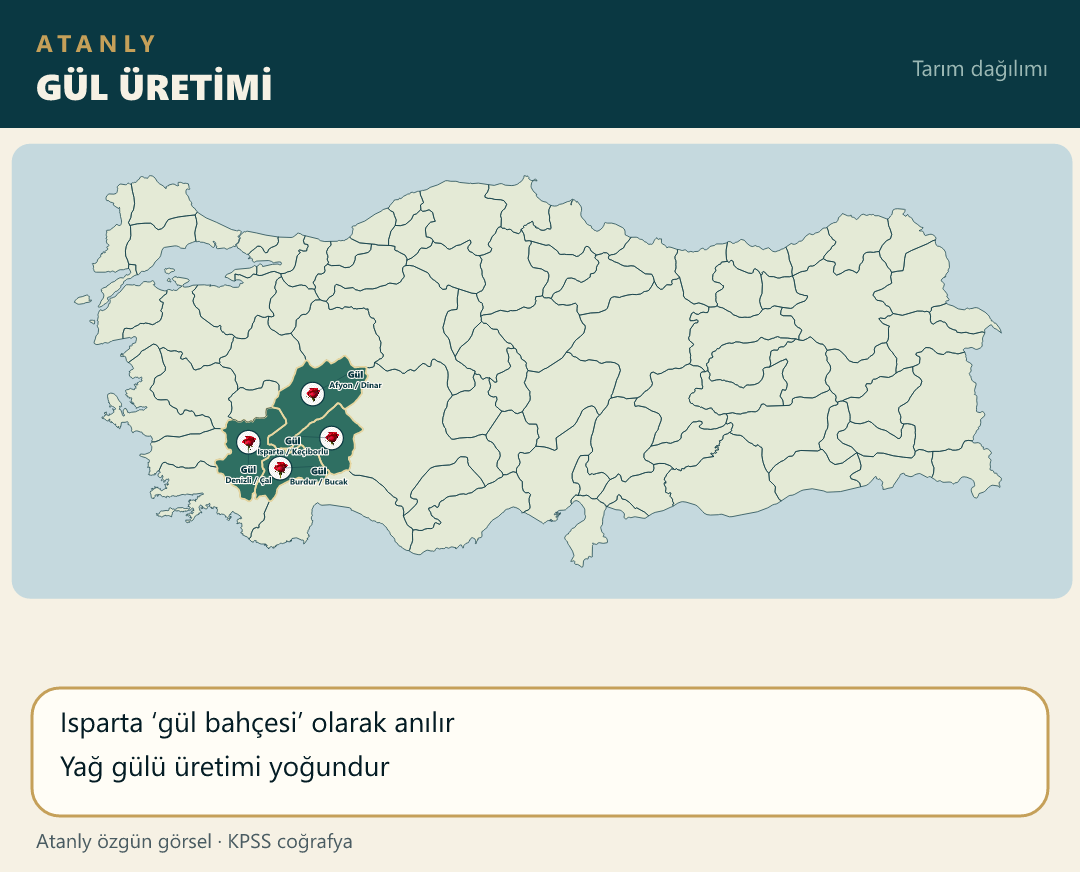
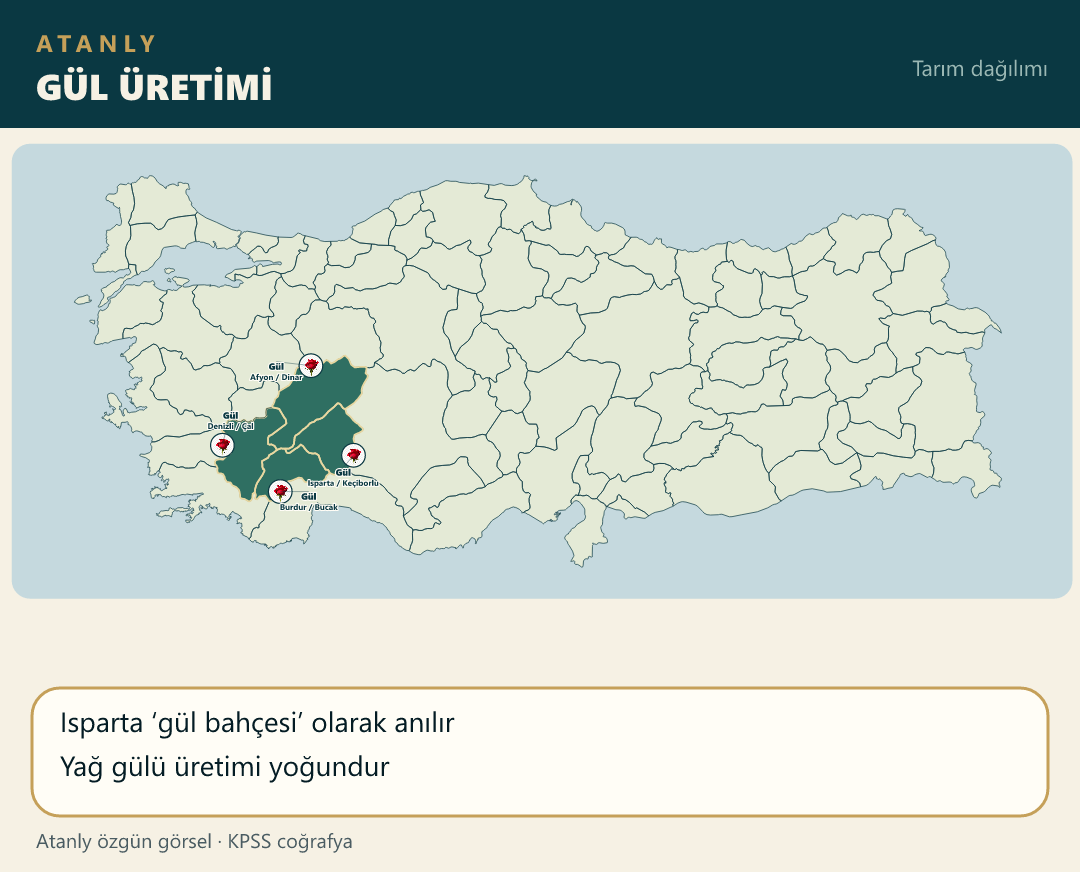
Separate Lakes Region rose pins so labels stay inside each province.

Changed region(s): [[0.1833, 0.4644, 0.3361, 0.5883], [0.2444, 0.4025, 0.3667, 0.4644]]

diff --git a/scripts/build-atanly-maps.js b/scripts/build-atanly-maps.js
@@ -410,7 +410,7 @@ function spreadSameCell(pts) {
 }
 
 function clampPhotoLabel(p) {
-    if (p.minX == null) return;
+    if (p.locked || p.minX == null) return;
     var minOff = 28;
     function inside(x, y) {
         return x >= p.minX + 12 && x <= p.maxX - 12 && y >= p.minY + 12 && y <= p.maxY - 12;
@@ -531,6 +531,8 @@ function cropMap(provs, opts) {
         }
         hi.push(row.il);
         var pos = districtXY(fp);
+        if (row.pin === "cap" && fp.capX != null) pos = { x: fp.capX, y: fp.capY };
+        pos = { x: pos.x + (row.pdx || 0), y: pos.y + (row.pdy || 0) };
         var ldy = row.ldy != null ? row.ldy : ((fp.maxY - pos.y) < 55 ? -16 : 18);
         pts.push({
             x: pos.x, y: pos.y, ox: pos.x, oy: pos.y,
@@ -548,7 +550,10 @@ function cropMap(provs, opts) {
     if (!opts.urun) spreadSameCell(pts);
     else {
         spreadPhotoLabels(pts);
-        pts.forEach(clampPhotoLabel);
+        pts.forEach(function (p) {
+            if (p.locked) return;
+            clampPhotoLabel(p);
+        });
     }
     var factsY = 78 + MAP_BLOCK_H + 16;
     var facts = wrapFacts(opts.facts, 16, factsY, CANVAS_W - 32, 14);
@@ -634,10 +639,10 @@ function main() {
         { file: "kırmızı_mercimek.png", title: "KIRMIZI MERCİMEK", iller: ["Şanlıurfa", "Diyarbakır", "Mardin", "Batman"], facts: ["Güneydoğu Anadolu birinci sıradadır", "Kuraklığa dayanıklı baklagildir"] },
         { file: "gül.png", title: "GÜL ÜRETİMİ", urun: "Gül",
             noktalar: [
-                { il: "Isparta", ilce: "Keçiborlu", ldx: -40, ldy: -22 },
-                { il: "Burdur", ilce: "Bucak", ldx: -28, ldy: 30 },
-                { il: "Afyon", ilce: "Dinar", ldx: 42, ldy: -16 },
-                { il: "Denizli", ilce: "Çal", ldx: -44, ldy: 8 }
+                { il: "Afyon", ilce: "Dinar", pin: "cap", pdy: -28, ldx: -34, ldy: 4 },
+                { il: "Isparta", ilce: "Keçiborlu", pin: "cap", pdx: 20, pdy: 16, ldx: -10, ldy: 20 },
+                { il: "Burdur", ilce: "Bucak", pin: "cap", pdy: 24, ldx: 28, ldy: 8 },
+                { il: "Denizli", ilce: "Çal", pin: "cap", pdx: -26, ldx: 8, ldy: -26 }
             ],
             facts: ["Isparta ‘gül bahçesi’ olarak anılır", "Yağ gülü üretimi yoğundur"] },
         { file: "turunc.png", title: "TURUNÇGİL ÜRETİMİ", iller: ["Antalya", "Mersin", "Adana", "Hatay", "Muğla"], facts: ["Akdeniz kıyı kuşağı", "Don riski düşük yerlerde yetişir"] },

diff --git a/notlar/cografya-19-not.js b/notlar/cografya-19-not.js
@@ -2,7 +2,7 @@
 (function () {
     function harita(src, alt) {
         return '<div class="mt-4 overflow-hidden rounded-xl border border-blue-200 dark:border-blue-700/50 bg-white dark:bg-slate-800 p-2">' +
-            '<img src="./src/img/' + src + '?v=23" alt="' + alt + ' Haritası" class="w-full h-auto rounded-lg object-contain" loading="lazy">' +
+            '<img src="./src/img/' + src + '?v=24" alt="' + alt + ' Haritası" class="w-full h-auto rounded-lg object-contain" loading="lazy">' +
             "</div>";
     }
 

diff --git a/index.html b/index.html
@@ -117,7 +117,7 @@
     <script src="notlar/cografya-16-not.js?v=3"></script>
     <script src="notlar/cografya-17-not.js?v=3"></script>
     <script src="notlar/cografya-18-not.js?v=15"></script>
-    <script src="notlar/cografya-19-not.js?v=19"></script>
+    <script src="notlar/cografya-19-not.js?v=20"></script>
     <script src="notlar/cografya-20-not.js?v=1"></script>
     <script src="notlar/cografya-21-not.js?v=4"></script>
     <script src="notlar/cografya-22-not.js?v=1"></script>
